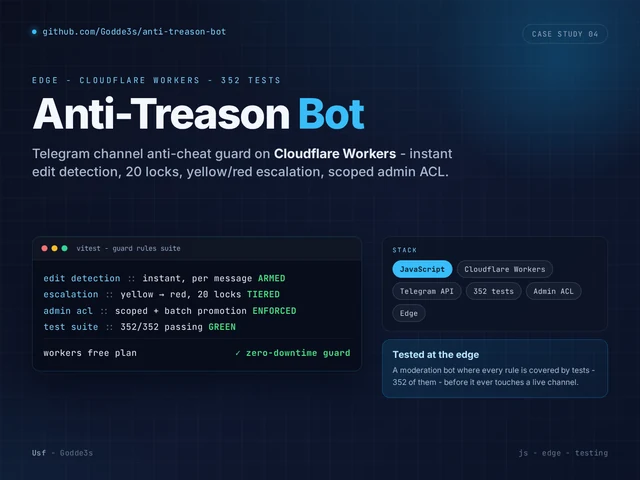
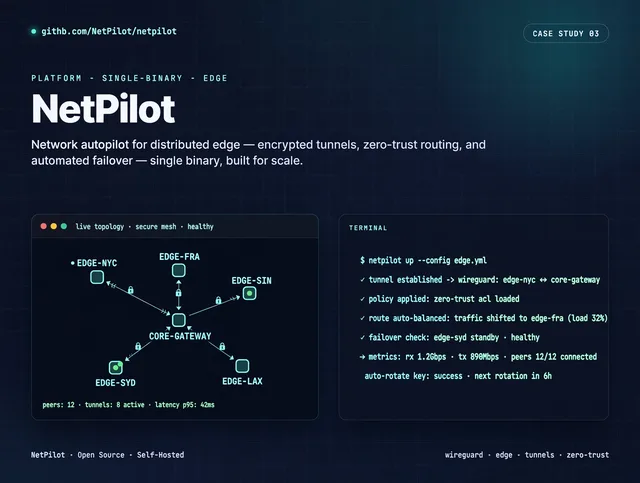
iOS v3.5: laptop stories now VeilChat, Peregrine, Hermes Stack, NetPilot (new covers generated)

diff --git a/index.html b/index.html
@@ -476,34 +476,38 @@ var CATS = {
     {
       image: 'assets/stories/story-1.webp?v=20',
       srcset: 'assets/stories/story-1-640.webp?v=20 640w, assets/stories/story-1.webp?v=20 1280w',
+      imageWidth: 1280,
       imageHeight: 959,
       objectPosition: 'center center',
       link: 'https://github.com/Godde3s/veilchat',
       alt: 'VeilChat — serverless P2P messenger with end-to-end encryption'
     },
     {
-      image: 'assets/stories/story-2.webp?v=20',
-      srcset: 'assets/stories/story-2-640.webp?v=20 640w, assets/stories/story-2.webp?v=20 1280w',
-      imageHeight: 959,
+      image: 'assets/stories/story-2.webp?v=21',
+      srcset: 'assets/stories/story-2-640.webp?v=21 640w, assets/stories/story-2.webp?v=21 1824w',
+      imageWidth: 1824,
+      imageHeight: 1376,
       objectPosition: 'center center',
-      link: 'https://github.com/Godde3s/whisker',
-      alt: 'Whisker — self-hosted customer conversations platform, Persian/RTL-first, maintained by Usf'
+      link: 'https://github.com/Godde3s/peregrine',
+      alt: 'Peregrine — Streaming AI console for iOS & Android, built to a native design bar'
     },
     {
-      image: 'assets/stories/story-3.webp?v=20',
-      srcset: 'assets/stories/story-3-640.webp?v=20 640w, assets/stories/story-3.webp?v=20 1280w',
-      imageHeight: 959,
+      image: 'assets/stories/story-3.webp?v=21',
+      srcset: 'assets/stories/story-3-640.webp?v=21 640w, assets/stories/story-3.webp?v=21 1824w',
+      imageWidth: 1824,
+      imageHeight: 1376,
       objectPosition: 'center center',
-      link: 'https://github.com/Godde3s/goftego',
-      alt: 'Goftego — self-hosted realtime chat rooms with WebSocket fan-out and JWT auth'
+      link: 'https://github.com/Godde3s/hermes-stack',
+      alt: 'Hermes Stack — AI server that routes models, schedules jobs & automations'
     },
     {
-      image: 'assets/stories/story-4.webp?v=20',
-      srcset: 'assets/stories/story-4-640.webp?v=20 640w, assets/stories/story-4.webp?v=20 1280w',
-      imageHeight: 959,
+      image: 'assets/stories/story-4.webp?v=21',
+      srcset: 'assets/stories/story-4-640.webp?v=21 640w, assets/stories/story-4.webp?v=21 1824w',
+      imageWidth: 1824,
+      imageHeight: 1376,
       objectPosition: 'center center',
-      link: 'https://github.com/Godde3s/anti-treason-bot',
-      alt: 'Anti-Treason Bot — Telegram anti-cheat guard on Cloudflare Workers with 352 tests'
+      link: 'https://github.com/Godde3s/netpilot',
+      alt: 'NetPilot — Network autopilot, single-binary edge tooling & tunnels'
     }
   ];
 
@@ -537,7 +541,7 @@ var CATS = {
     img.srcset = s.srcset;
     img.sizes = '(max-width: 760px) 62vw, 440px';
     img.alt = s.alt || 'Story cover';
-    img.width = 1280;
+    img.width = s.imageWidth || 1280;
     img.height = s.imageHeight;
     img.style.objectPosition = s.objectPosition;
     img.loading = 'lazy';
